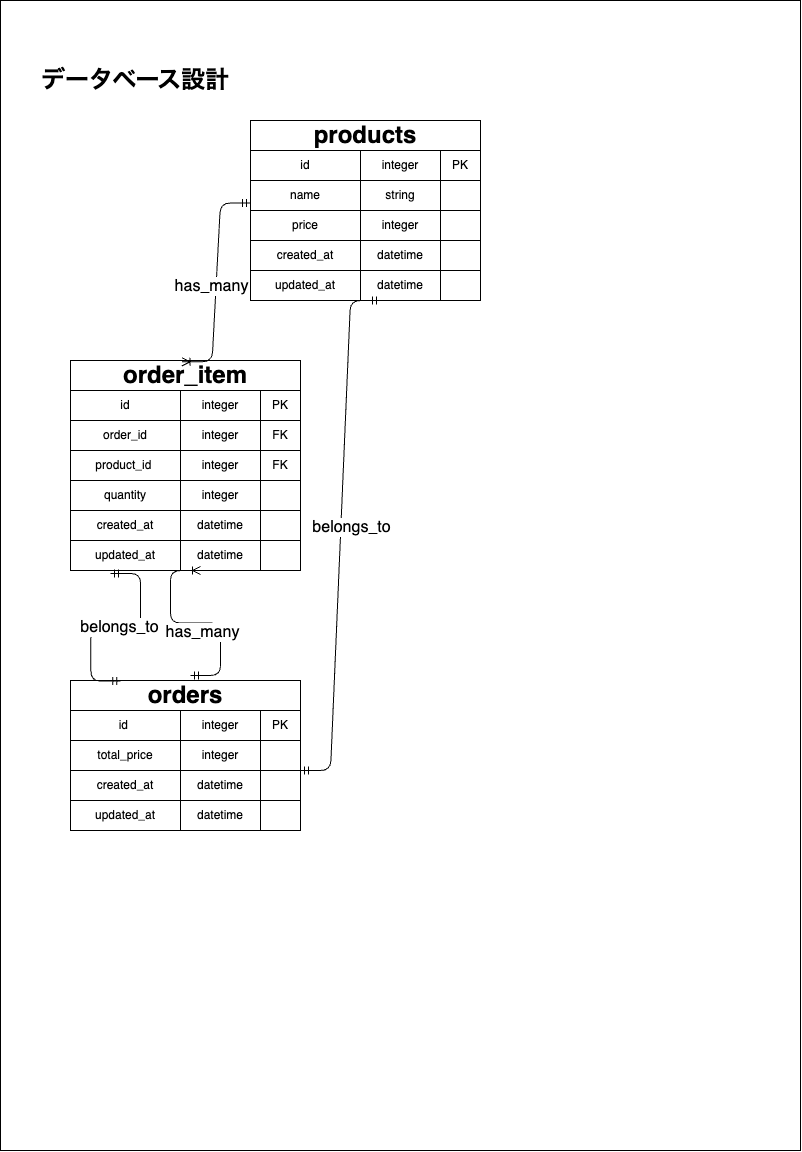
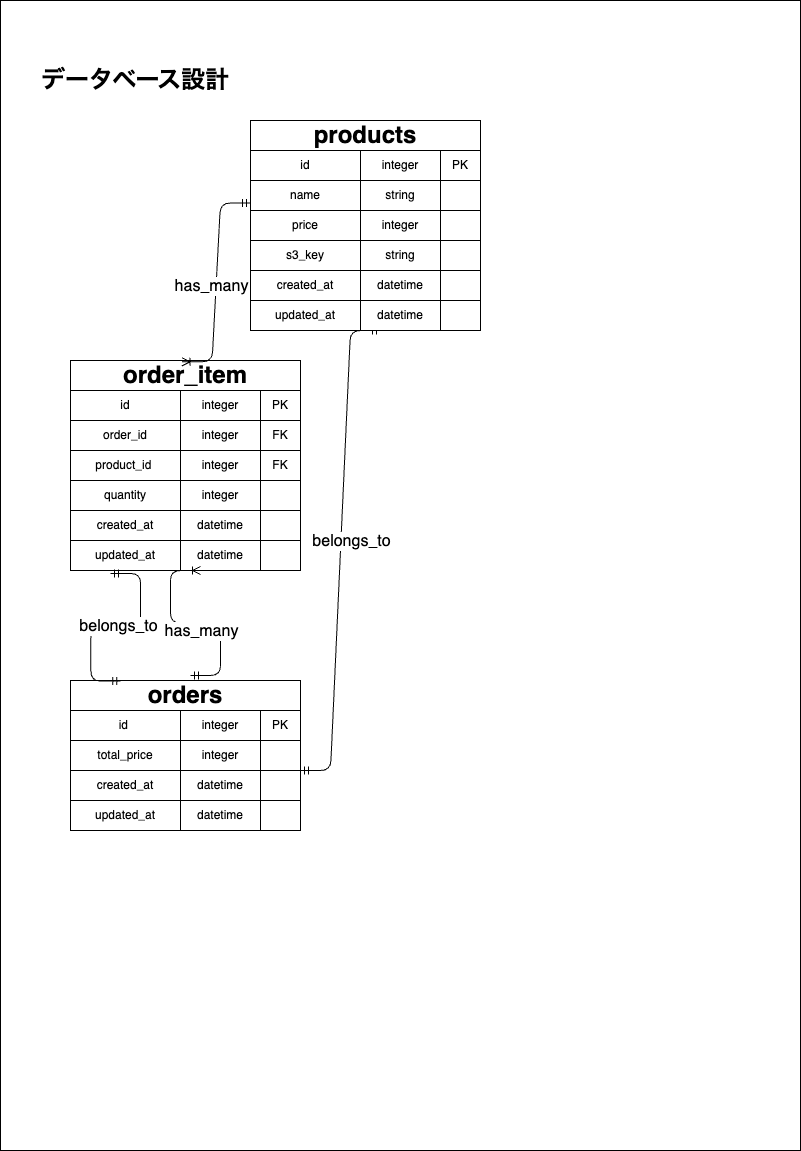
商品編集訂正

diff --git a/app/controllers/products_controller.rb b/app/controllers/products_controller.rb
@@ -1,10 +1,19 @@
-# app/controllers/products_controller.rb
 class ProductsController < ApplicationController
   require 'httparty'
+  require 'aws-sdk-s3'
+  require 'securerandom'
+
+  S3_BUCKET  = ENV.fetch("S3_BUCKET")
+  S3_CLIENT  = Aws::S3::Client.new(
+    region: ENV["AWS_REGION"],
+    access_key_id: ENV["AWS_ACCESS_KEY_ID"],
+    secret_access_key: ENV["AWS_SECRET_ACCESS_KEY"]
+  )
 
   skip_before_action :verify_authenticity_token, only: [:predict, :capture_product]
   before_action :set_product, only: [:show, :edit, :update, :destroy]
   
+
   
   # — 商品一覧（レジ画面兼用） —
   def index
@@ -30,15 +39,12 @@ class ProductsController < ApplicationController
   # — 新規登録処理 —
   def create
     @product = Product.new(product_params)
-    attach_blob_image  # カメラ撮影後の Blob を attach
+    attach_blob_image
 
     if @product.save
-
-      # ここにログ出力を追加
       Rails.logger.info "▶ register_image_to_flask! name=#{@product.name.inspect}"
-
-
-      register_image_to_flask!(@product.image, @product.name)
+      new_key = register_image_to_flask!(@product.image, @product.name)
+      @product.update!(s3_key: new_key) if new_key.present?
       session.delete(:product_image_blob_id)
       redirect_to products_path, notice: "「#{@product.name}」を登録しました"
     else
@@ -58,11 +64,9 @@ class ProductsController < ApplicationController
     attach_blob_image
 
     if @product.update(filtered)
-      # 返り値として S3 側のキーを受け取る
       new_key = register_image_to_flask!(@product.image, @product.name)
-      # DB の s3_key カラムにも書き込む
-      @product.update!(s3_key: new_key) if new_key.present?
-
+      # もし register_image_to_flask! 内で更新していないなら外で書き込む
+      @product.update!(s3_key: new_key) if new_key.present? && !@product.s3_key.eql?(new_key)
       redirect_to products_path, notice: '商品情報を更新しました。'
     else
       render :edit, status: :unprocessable_entity
@@ -240,32 +244,30 @@ class ProductsController < ApplicationController
   end
 
 
-  # ActiveStorage Blob → 一時ファイル → Flask に送信
+  # ActiveStorage Blob → 一時ファイル → S3 と Flask に送信
+  # 戻り値として S3 へアップしたキー（filename）を返す
   def register_image_to_flask!(attached_image, name)
     return unless attached_image.attached?
 
     blob     = attached_image.blob
-    filename = nil
+    filename = "#{SecureRandom.uuid}#{File.extname(blob.filename.to_s)}"
 
     Tempfile.create(['upload', File.extname(blob.filename.to_s)]) do |temp|
       temp.binmode
       temp.write blob.download
       temp.flush
 
-      # S3 にアップするキーを UUID で決定
-      filename = "#{SecureRandom.uuid}#{File.extname(blob.filename.to_s)}"
-
-      # → S3 へアップロード
-      s3.upload_file(
-        Filename: temp.path,
-        Bucket: S3_BUCKET,
-        Key: filename,
-        ExtraArgs: { ContentType: blob.content_type }
+      # 1) S3 にアップロード
+      S3_CLIENT.put_object(
+        bucket: S3_BUCKET,
+        key: filename,
+        body: File.open(temp.path),
+        content_type: blob.content_type
       )
 
-      # → Flask にも送信
+      # 2) Flask サーバーにも送信
       resp = HTTParty.post(
-        flask_base_url + '/register_image',
+        "#{flask_base_url}/register_image",
         multipart: true,
         body: {
           "name" => name,
@@ -275,16 +277,15 @@ class ProductsController < ApplicationController
 
       if resp.code == 200
         Rails.logger.info "▶ register_image_to_flask! sent name=#{name.inspect}"
-
-        # ← ここで DB にも書き込む
-        @product.update!(s3_key: filename)
+        # s3_key カラムがあれば更新
+        @product.update!(s3_key: filename) if @product.respond_to?(:s3_key=)
       else
         Rails.logger.error "Flask 画像登録失敗（#{resp.code}）: #{resp.body}"
       end
     end
 
     filename
-  end
+  end 
 
 
   # カート追加ヘルパー

diff --git a/README.md b/README.md
@@ -17,16 +17,18 @@ Rails のフロントエンドと MySQL／PostgreSQL をバックエンドに、
 
 ## 主な機能
 
+
 | 機能                       | 説明                                                                 |
 |----------------------------|----------------------------------------------------------------------|
 | **商品管理**               | カタカナのみの名前制約、価格バリデーション                             |
 | **画像アップロード**       | ActiveStorage ＋ カメラ撮影連携                                       |
-| **AI画像認識レジ**         | Flask サーバー（Python）＋SSIM／SIFT／ORB による複合スコアで高精度マッチング |
+| **AI画像認識レジ**         | Flask サーバー＋SSIM／SIFT／ORB による複合スコアで高精度マッチング      |
 | **キーワード検索レジ**     | 商品名キーワード検索でカートに追加                                     |
 | **カート管理**             | セッションベース、数量更新・クリア                                     |
-| **売上分析ダッシュボード** | 年次／月次／日次切替の売上グラフとサマリー指標 (合計売上・オーダー数・平均購入額) |
+| **売上分析ダッシュボード** | 年次／月次／日次切替の売上グラフとサマリー指標                         |
 | **管理画面リセット機能**   | `GET /admin/reset_all?token=…` で全データ削除（Basic 認証下）          |
-| **Basic 認証**             | 管理画面は HTTP Basic 認証  
+| **Basic 認証**             | 管理画面は HTTP Basic 認証                                           |
+
 ---
 
 ## Live Demo
@@ -54,27 +56,31 @@ _Basic 認証_
 
 ### Python（画像認識）サイド
 
-- Python 3.10  
-- Flask 2.3.2  
-- Pillow 10.3.0  
-- NumPy 1.26.4  
-- scikit-image（SSIM）  
+- Python 3.11  
+- Flask 3.1.1 
+- Pillow 11.2.1 
+- NumPy 2.2.6  
+- scikit-image 0.25.2（SSIM） 
 - OpenCV（ORB／SIFT）  
 - gunicorn  
 - Flask-CORS  
 - requests 2.31.0
+- SQLAlchemy 2.0.20 / psycopg2-binary 2.9.6（本番でDBマッピングを使う場合）
 
 
 #### `requirements.txt` 抜粋
 ```text
-Flask==2.3.2
-Pillow==10.3.0
-numpy==1.26.4
-scikit-image
-opencv-python
-gunicorn
-Flask-CORS
-requests==2.31.0
+Flask==3.1.1
+Pillow==11.2.1
+numpy==2.2.6
+scikit-image==0.25.2
+opencv-python==4.11.0.86
+gunicorn==23.0.0
+Flask-CORS==6.0.0
+requests==2.32.3
+SQLAlchemy==2.0.20
+psycopg2-binary==2.9.6
+boto3==1.38.23
 
 
 
@@ -92,6 +98,7 @@ requests==2.31.0
 |-------------|----------|---------------------------------|
 | `name`      | string   | null: false, format: katakana   |
 | `price`     | integer  | null: false, numericality: >0   |
+| `s3_key`    | string   | 登録済み画像の S3 キー保存用        |
 | `created_at`| datetime |                                 |
 | `updated_at`| datetime |                                 |
 
